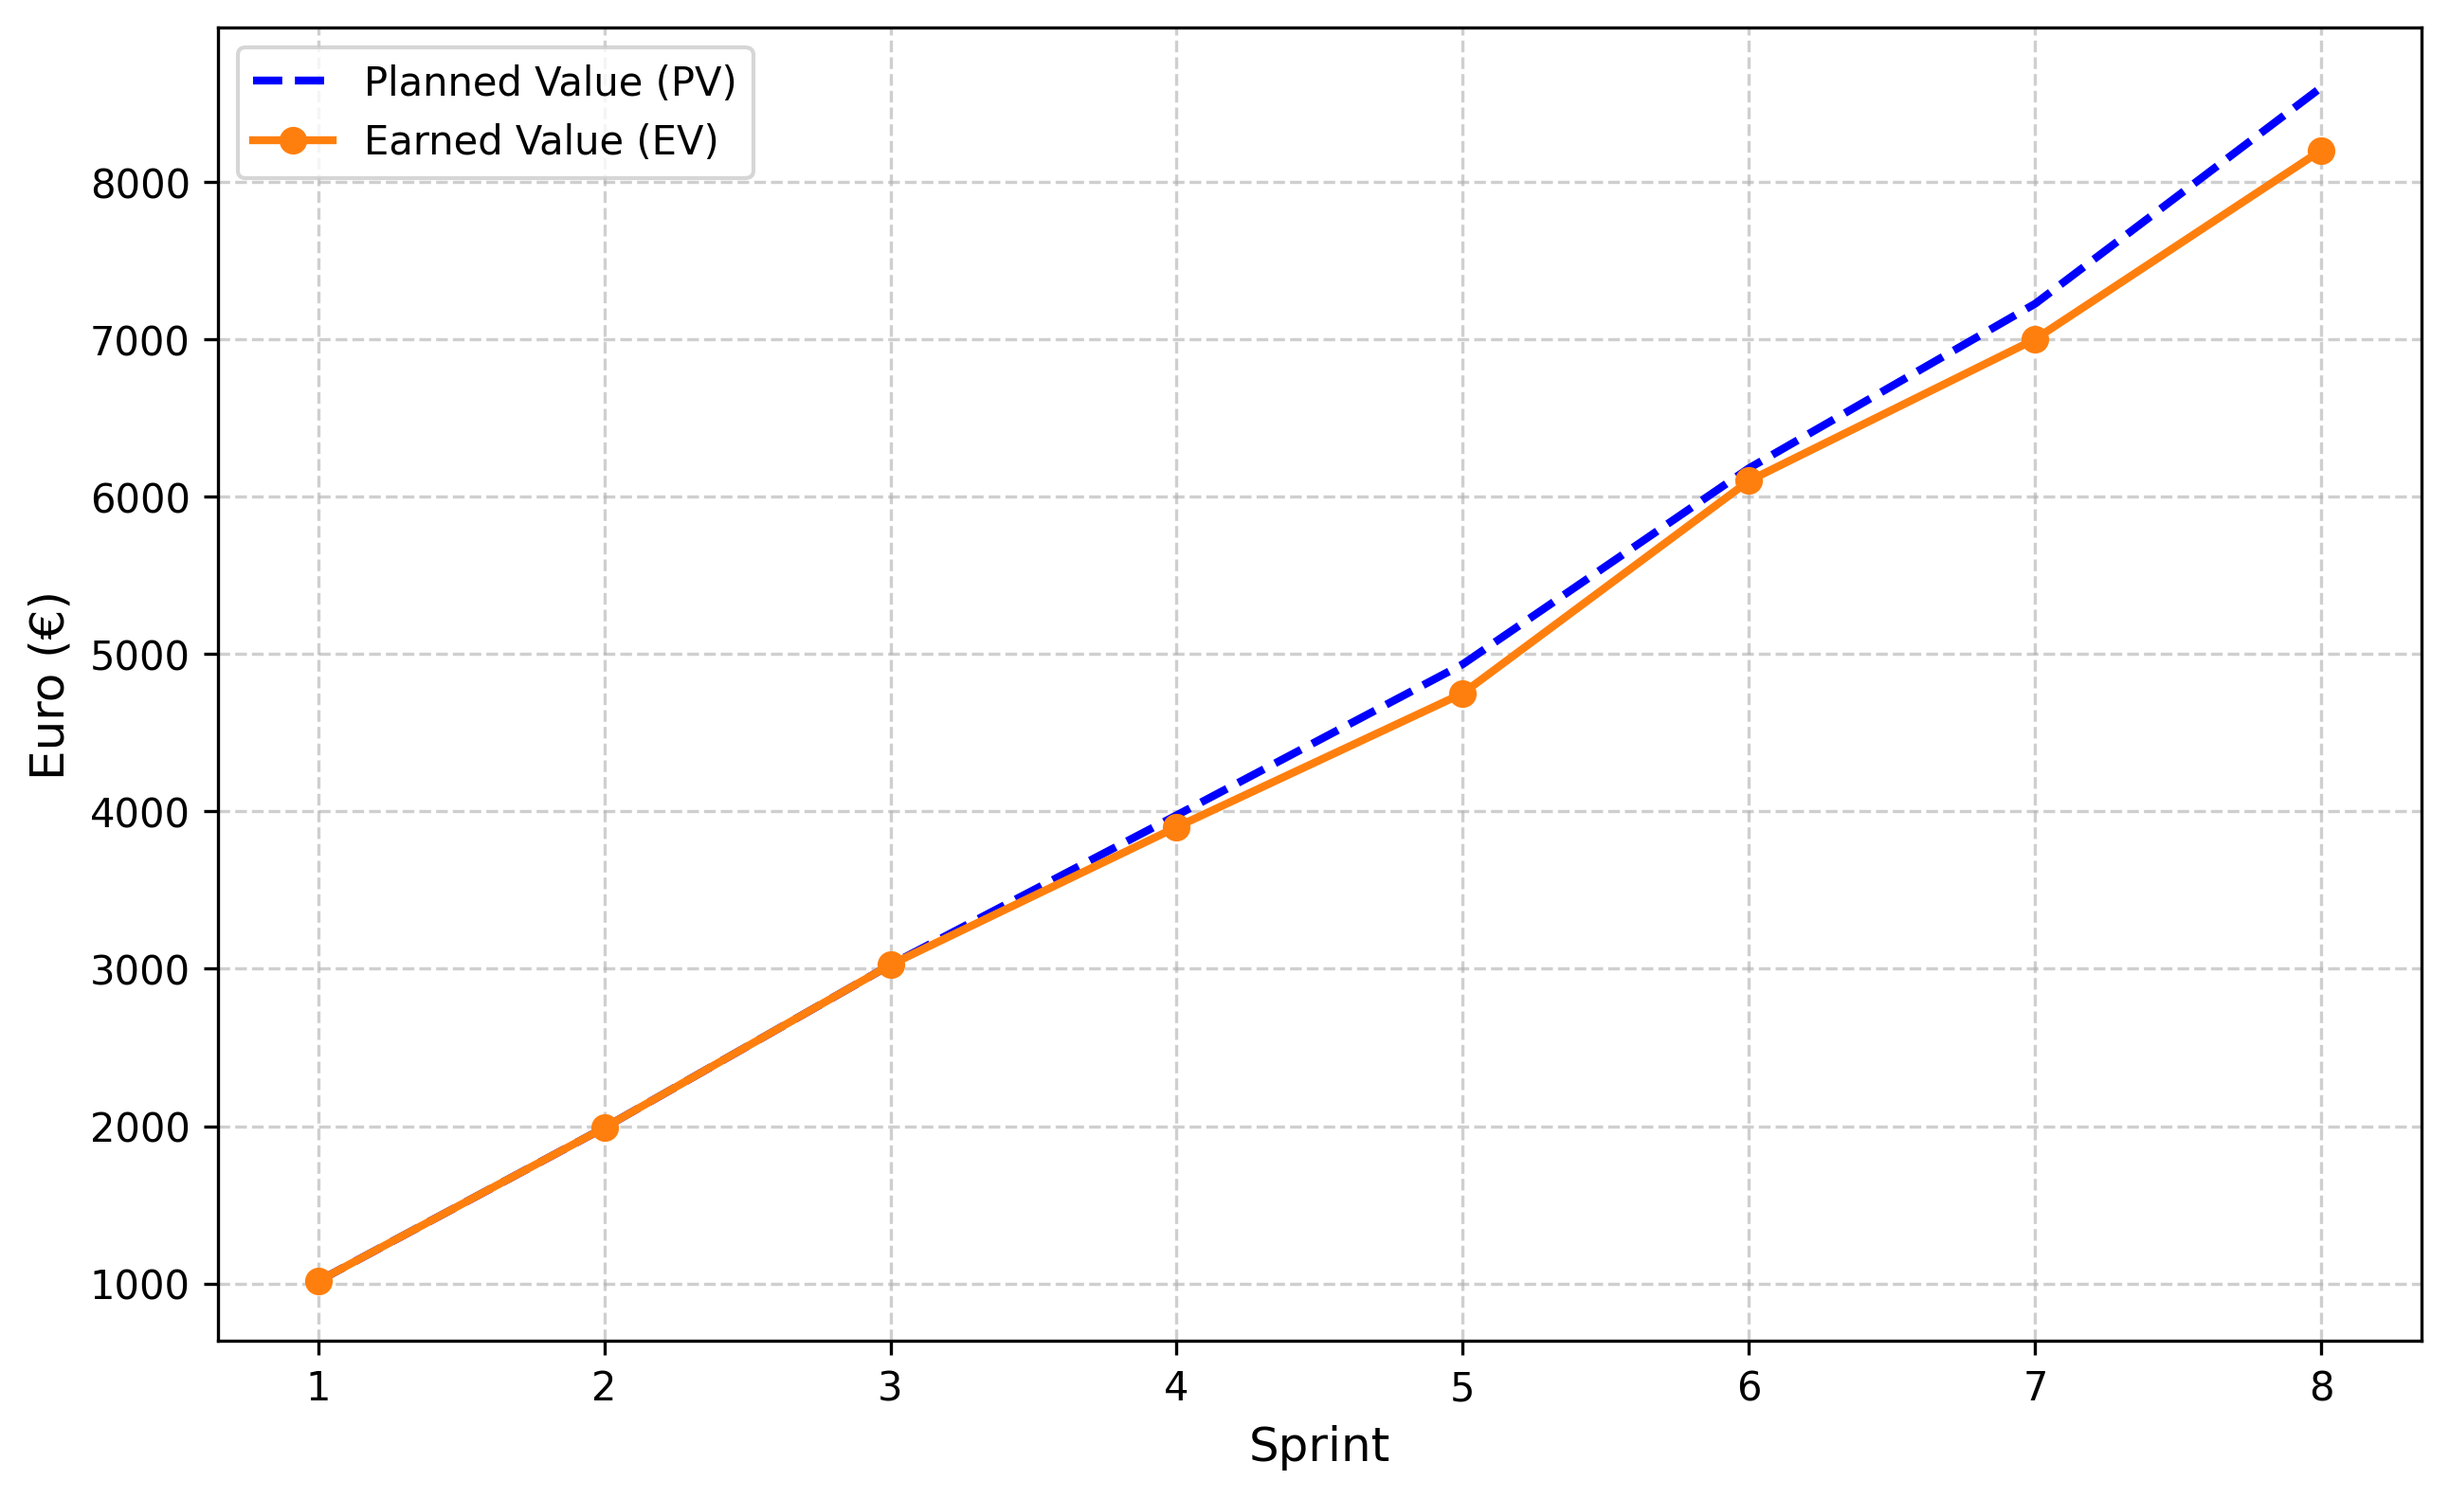
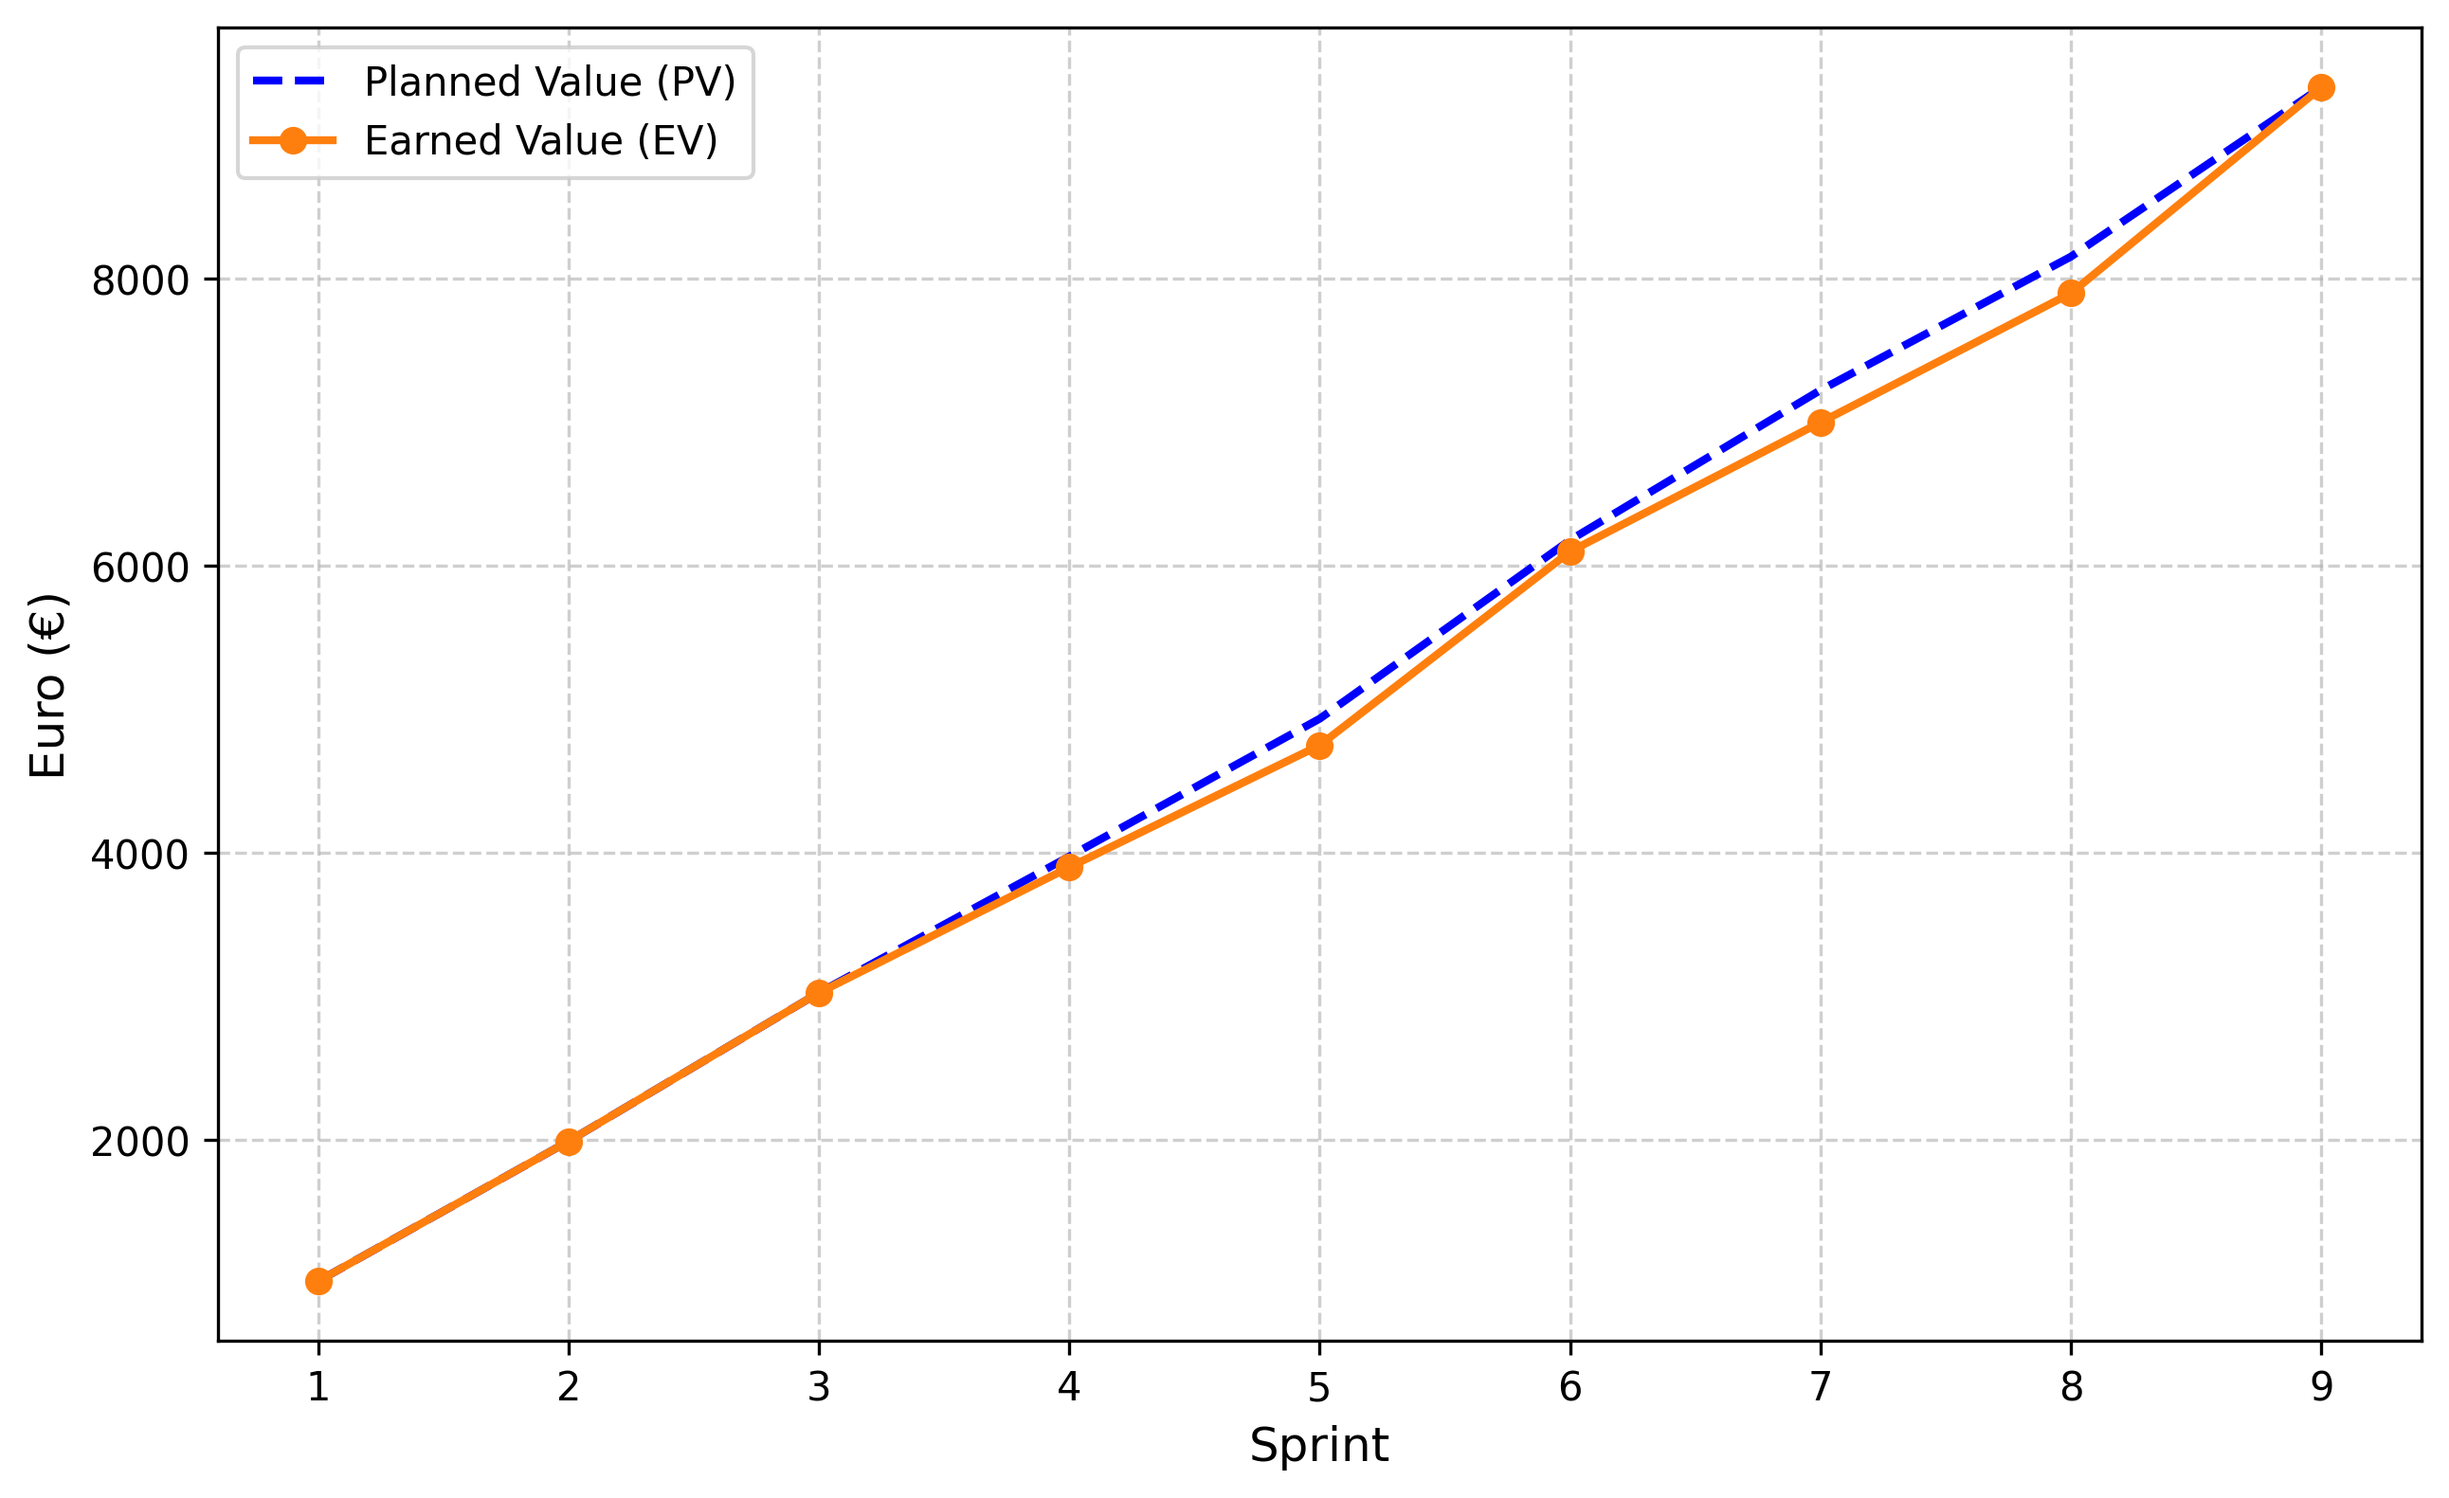
aggiornamento sprint 9 PDQ

diff --git a/1 - RTB/Documenti esterni/Piano_di_Qualifica_v0_10.tex b/1 - RTB/Documenti esterni/Piano_di_Qualifica_v0_10.tex
@@ -9,7 +9,7 @@
 \setAuthors{Andrea Masiero \\ & Bianca Zaghetto \\ & Mattia Oliva Medin \\ & Sara Gioia Fichera}
 \setVerificators{ Mattia Oliva Medin \\ & Filippo Compagno \\ & Nenad Radulovic }
 \setApprovation{ }
-\setVersion{0.9}
+\setVersion{0.10}
 \setType{Esterno}
 \setDestination{Tullio Vardanega \\ & Riccardo Cardin \\ & Team Three Technologies}
 
@@ -22,6 +22,8 @@
                 \begin{tabularx}{\textwidth}{|l|l|l|l|L|L|}
                 \hline
                 \textbf{Vers.} & \textbf{Data} & \textbf{Autore} & \textbf{Ruolo} & \textbf{Verifica} & \textbf{Oggetto} \\
+                \hline
+                \textbf{0.10} & 17/03/2026 & Mattia Oliva Medin & Progettista & Andrea Masiero & Aggiornamento grafici per sprint 9\\
                 \hline
                 \textbf{0.9} & 26/02/2026 & Francesco Balestro & Progettista & Sara Gioia Fichera & Inserimento grafici\\
                 \hline
@@ -90,12 +92,12 @@
                     \item \textit{Analisi dei Requisiti v1.0}
                     \begin{itemize}
                         \item \url{https://team-three-technologies.github.io/Documenti/1%20-%20RTB/Documenti%20esterni/Analisi_dei_Requisiti_v1_0.pdf}
-                        \item[] (Ultimo accesso: //)
+                        \item[] (Ultimo accesso: 2026/03/17)
                     \end{itemize}
                     \item \textit{Piano di Progetto v1.0}
                     \begin{itemize}
                         \item \url{https://team-three-technologies.github.io/Documenti/1%20-%20RTB/Documenti%20esterni/Piano_di_Progetto_v1_0.pdf}
-                        \item[] (Ultimo accesso: //)
+                        \item[] (Ultimo accesso: 2026/03/17)
                     \end{itemize}
                     \item Slide del corso: T7 - Qualità di prodotto
                     \begin{itemize}
@@ -791,6 +793,7 @@ In questa sezione vengono riportati gli andamenti durante tutti gli sprint delle
     
     \noindent
     Il grafico mostra un andamento allineato tra EV e PV per i primi 3 sprint. A partire dallo sprint 4 si nota una leggera flessione dell’EV dovuta ai rallentamenti del periodo festivo (come descritto nel \textit{Piano di Progetto} (\S5.2.4.7)). 
+    Nello sprint 8 si registra un ulteriore incremento dello scostamento negativo tra EV e PV, recuperato poi all'interno dello sprint successivo con la conclusione del PoC. 
     Tuttavia lo scostamento si è mantenuto entro i limiti di tolleranza accettabili definiti dalla metrica MPC08. 
 
     \subsection{MPC04/MPC05 - Actual Cost (AC) e Estimated To Complete (ETC)}
